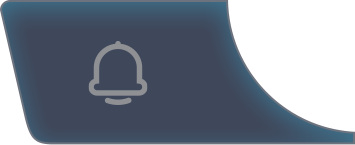
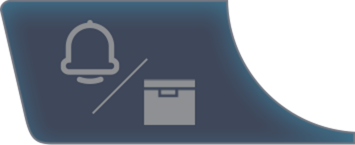
20220326
增加设备型号10~99；修改控制页面上方的状态图片；修改控制页面的铃铛按钮（左下方那个按钮）图片。

Changed region(s): [[0.1549, 0.1379, 0.5577, 0.8828], [0.2479, 0.7448, 0.2789, 0.7724]]

diff --git a/miniprogram/app.js b/miniprogram/app.js
@@ -9,14 +9,16 @@ const bledata = require('/utils/bledata.js')
 const httputil = require('/utils/httputil.js')
 
 //从厂商数据获取的设备类型，加号(+)代表设备处于可配对状态
-const DEVICE_TYPES = [
-  '_BA01', '+BA01',
-  '_BA02', '+BA02',
-  '_BA03', '+BA03',
-  '_BA07', '+BA07',
-  '_BA08', '+BA08',
-  '_BA09', '+BA09'
-]
+// const DEVICE_TYPES = [
+//   '_BA01', '+BA01',
+//   '_BA02', '+BA02',
+//   '_BA03', '+BA03',
+//   '_BA07', '+BA07',
+//   '_BA08', '+BA08',
+//   '_BA09', '+BA09'
+// ]
+//正则表达式匹配设备类型
+const TYPE_PATTERN = /^[_+]BA[\d]{2}$/;
 
 App({
   onLaunch: function () {
@@ -82,7 +84,7 @@ App({
 
         //console.info('### BLE Manufacturer Data:', mfrHead + ' ' + mac + ' ' + deviceType + version)
 
-        if (mfrHead == 'ZXH' && DEVICE_TYPES.indexOf(deviceType, 0) != -1) {
+        if (mfrHead == 'ZXH' && TYPE_PATTERN.test(deviceType)) {
           //成对存储 deviceId 与 MAC
           sputil.putDeviceIdAndMac(device.deviceId, mac);
 
@@ -224,9 +226,10 @@ App({
     return false;
   },
 
-  //3款免费型号
+  //免费型号
   isFreeDevice(deviceType) {
-    return (deviceType == '+BA07' || deviceType == '+BA08' || deviceType == '+BA09')
+    const num = parseInt(deviceType.substring(3, 5));
+    return num >= 7;
   },
 
   globalData: {

diff --git a/miniprogram/utils/bledata.js b/miniprogram/utils/bledata.js
@@ -13,7 +13,7 @@ const CMD_START = 5
  * @param {*} cmdCode 1-设防，2-撤防，3-寻车，4-静音设防，5-启动，6-测试，0xff-开HID配对，0xfe-关HID配对
  * @param {*} sensitivity 震动灵敏度1~5
  * @param {*} limitSpeed true-限速，false-不限速
- * @param {*} volume 限速提示音量1~5
+ * @param {*} volume 限速提示音量1~3
  * @param {*} optCode 1-标识设置灵敏度，2-表示设置限速开关，3-表示设置限速提示音量，4-控制功能，5-感应功能（BA02新增）
  */
 const mkData = (cmdCode, sensitivity, limitSpeed, volume, optCode = 0, ganying) => {

diff --git a/miniprogram/pages/userConsole/userConsole.js b/miniprogram/pages/userConsole/userConsole.js
@@ -1061,7 +1061,9 @@ Page({
 
   //根据设备类型判断是否支持“后台感应功能”
   isGanyingAvailable(deviceType) {
-    return deviceType == '+BA02' || deviceType == '+BA03' || deviceType == '+BA08' || deviceType == '+BA09'
+    const num = parseInt(deviceType.substring(3, 5));
+    return num == 2 || num == 3 || num >= 8;
+    //return deviceType == '+BA02' || deviceType == '+BA03' || deviceType == '+BA08' || deviceType == '+BA09'
   },
 
   onLogoInput: function (e) {
